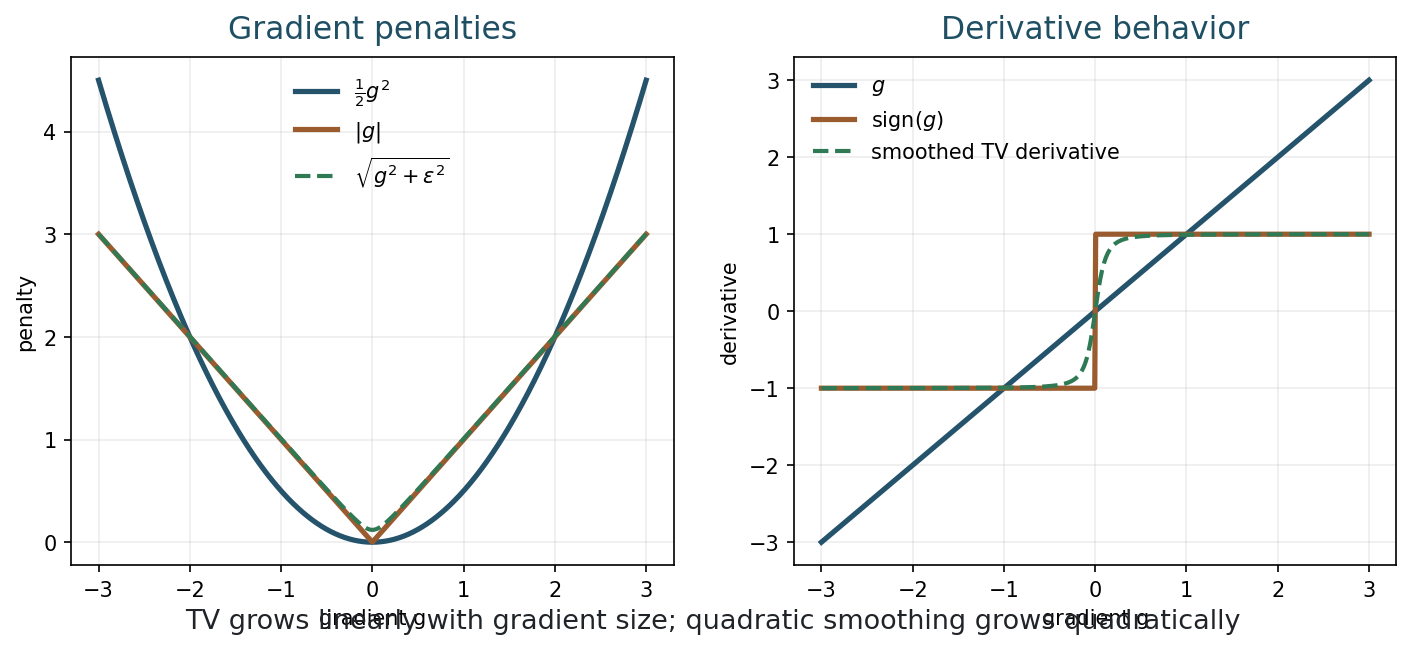
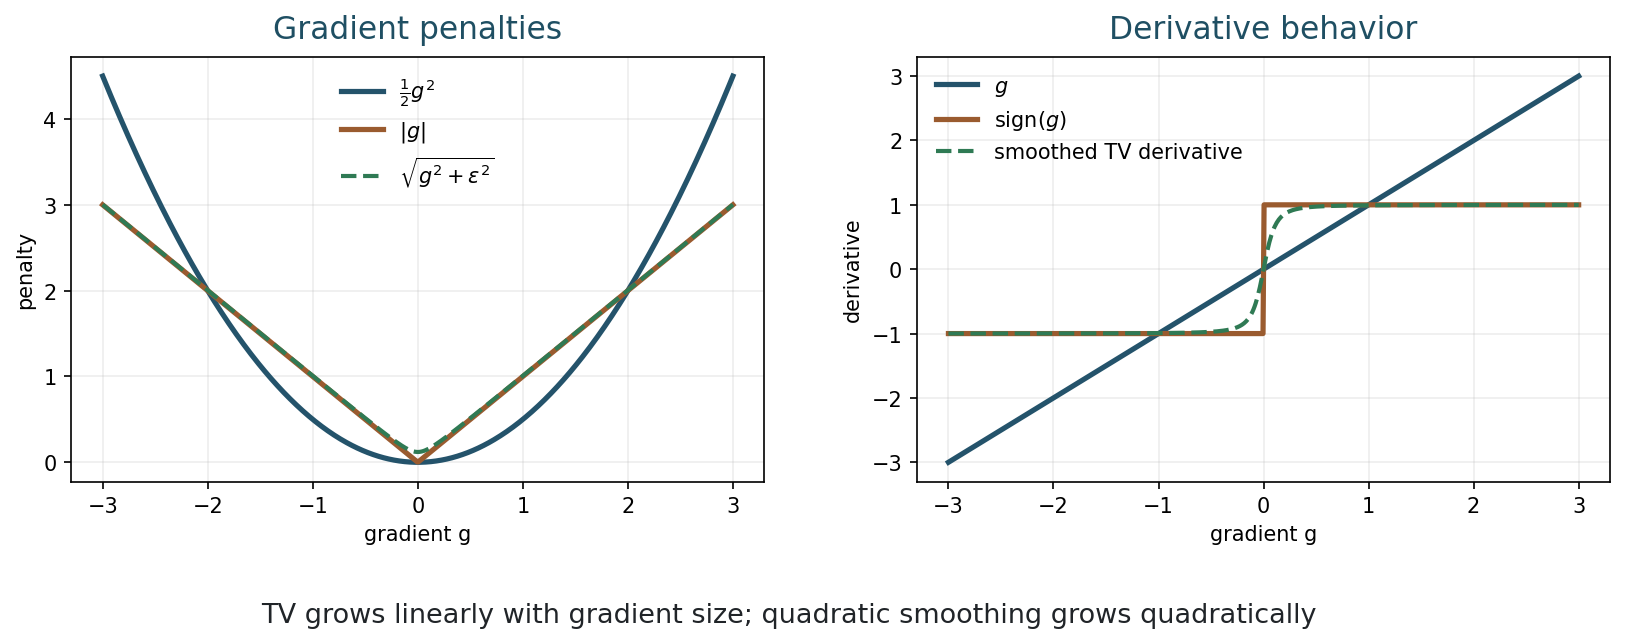
Built site for gh-pages

diff --git a/slides/week-01-image-formation.html b/slides/week-01-image-formation.html
@@ -439,7 +439,7 @@ x \mapsto Ax.
 </section>
 <section id="first-numpy-representation" class="slide level2 code-small">
 <h2>First NumPy Representation</h2>
-<div id="22eb4e40" class="cell">
+<div id="7f9a8e34" class="cell">
 <div class="code-copy-outer-scaffold"><div class="sourceCode cell-code" id="cb2"><pre class="sourceCode numberSource python number-lines code-with-copy"><code class="sourceCode python"><span id="cb2-1"><a></a><span class="im">import</span> numpy <span class="im">as</span> np</span>
 <span id="cb2-2"><a></a></span>
 <span id="cb2-3"><a></a>m, n <span class="op">=</span> <span class="dv">4</span>, <span class="dv">5</span></span>
@@ -458,7 +458,7 @@ x \mapsto Ax.
 <section id="vectorization-convention" class="slide level2">
 <h2>Vectorization Convention</h2>
 <p>NumPy uses row-major order by default:</p>
-<div id="c27cc574" class="cell">
+<div id="0e6807c4" class="cell">
 <div class="code-copy-outer-scaffold"><div class="sourceCode cell-code" id="cb3"><pre class="sourceCode numberSource python number-lines code-with-copy"><code class="sourceCode python"><span id="cb3-1"><a></a>U <span class="op">=</span> np.array([[<span class="dv">1</span>, <span class="dv">2</span>, <span class="dv">3</span>],</span>
 <span id="cb3-2"><a></a>              [<span class="dv">4</span>, <span class="dv">5</span>, <span class="dv">6</span>]])</span>
 <span id="cb3-3"><a></a></span>
@@ -686,7 +686,7 @@ x = A^{-1}y.
 <section id="a-toy-masking-operator" class="slide level2">
 <h2>A Toy Masking Operator</h2>
 <p>Suppose a fixed set of pixels is measured.</p>
-<div id="ebde42ff" class="cell">
+<div id="9d8f1840" class="cell">
 <div class="code-copy-outer-scaffold"><div class="sourceCode cell-code" id="cb4"><pre class="sourceCode numberSource python number-lines code-with-copy"><code class="sourceCode python"><span id="cb4-1"><a></a><span class="im">import</span> numpy <span class="im">as</span> np</span>
 <span id="cb4-2"><a></a></span>
 <span id="cb4-3"><a></a>x <span class="op">=</span> np.linspace(<span class="dv">0</span>, <span class="dv">1</span>, <span class="dv">12</span>)</span>
@@ -761,7 +761,7 @@ x.
 </section>
 <section id="python-demo-masking-a-real-image" class="slide level2 code-small">
 <h2>Python Demo: Masking a Real Image</h2>
-<div id="882bf567" class="cell">
+<div id="f14edf02" class="cell">
 <div class="code-copy-outer-scaffold"><div class="sourceCode cell-code" id="cb5"><pre class="sourceCode numberSource python number-lines code-with-copy"><code class="sourceCode python"><span id="cb5-1"><a></a><span class="im">from</span> skimage <span class="im">import</span> data</span>
 <span id="cb5-2"><a></a><span class="im">import</span> numpy <span class="im">as</span> np</span>
 <span id="cb5-3"><a></a></span>

diff --git a/slides/week-03-fourier-imaging.html b/slides/week-03-fourier-imaging.html
@@ -429,7 +429,7 @@ x[n] = \sin(2\pi 5n/N) + 0.5\sin(2\pi 20n/N).
 <section id="what-fft-returns" class="slide level2">
 <h2>What FFT Returns</h2>
 <div class="code-small">
-<div id="88b08403" class="cell">
+<div id="57aa8f9e" class="cell">
 <div class="code-copy-outer-scaffold"><div class="sourceCode cell-code" id="cb1"><pre class="sourceCode numberSource python number-lines code-with-copy"><code class="sourceCode python"><span id="cb1-1"><a></a><span class="im">import</span> numpy <span class="im">as</span> np</span>
 <span id="cb1-2"><a></a></span>
 <span id="cb1-3"><a></a>spectrum <span class="op">=</span> np.fft.fft(signal)</span>
@@ -468,7 +468,7 @@ x[n] = \sin(2\pi 5n/N) + 0.5\sin(2\pi 20n/N).
 <p>Most software places the zero frequency at the corner.</p>
 <p>For visualization, we often use:</p>
 <div class="code-small">
-<div id="36540fb4" class="cell">
+<div id="3ef0af7d" class="cell">
 <div class="code-copy-outer-scaffold"><div class="sourceCode cell-code" id="cb2"><pre class="sourceCode numberSource python number-lines code-with-copy"><code class="sourceCode python"><span id="cb2-1"><a></a>F <span class="op">=</span> np.fft.fft2(image)</span>
 <span id="cb2-2"><a></a>F_centered <span class="op">=</span> np.fft.fftshift(F)</span>
 <span id="cb2-3"><a></a>log_magnitude <span class="op">=</span> np.log1p(np.<span class="bu">abs</span>(F_centered))</span></code></pre></div><button title="Copy to Clipboard" class="code-copy-button"><i class="bi"></i></button></div>
@@ -538,7 +538,7 @@ x[n] = \sin(2\pi 5n/N) + 0.5\sin(2\pi 20n/N).
 </section>
 <section id="python-demo-spectrum-of-an-image" class="slide level2 code-small">
 <h2>Python Demo: Spectrum of an Image</h2>
-<div id="e073d579" class="cell">
+<div id="5a3c0c13" class="cell">
 <div class="code-copy-outer-scaffold"><div class="sourceCode cell-code" id="cb3"><pre class="sourceCode numberSource python number-lines code-with-copy"><code class="sourceCode python"><span id="cb3-1"><a></a><span class="im">from</span> skimage <span class="im">import</span> data</span>
 <span id="cb3-2"><a></a><span class="im">import</span> numpy <span class="im">as</span> np</span>
 <span id="cb3-3"><a></a></span>

diff --git a/slides/week-06-tikhonov-regularization.html b/slides/week-06-tikhonov-regularization.html
@@ -486,7 +486,7 @@ x_\lambda
 </section>
 <section id="python-demo-normal-equations" class="slide level2 code-small">
 <h2>Python Demo: Normal Equations</h2>
-<div id="7903c447" class="cell">
+<div id="dddbcf19" class="cell">
 <div class="code-copy-outer-scaffold"><div class="sourceCode cell-code" id="cb1"><pre class="sourceCode numberSource python number-lines code-with-copy"><code class="sourceCode python"><span id="cb1-1"><a></a>lhs <span class="op">=</span> A.T <span class="op">@</span> A <span class="op">+</span> lam <span class="op">*</span> np.eye(n)</span>
 <span id="cb1-2"><a></a>rhs <span class="op">=</span> A.T <span class="op">@</span> y</span>
 <span id="cb1-3"><a></a>x_lam <span class="op">=</span> np.linalg.solve(lhs, rhs)</span></code></pre></div><button title="Copy to Clipboard" class="code-copy-button"><i class="bi"></i></button></div>

diff --git a/slides/week-02-convolution-blur.html b/slides/week-02-convolution-blur.html
@@ -511,7 +511,7 @@ y = h * x
 </section>
 <section id="python-demo-blur-a-real-image" class="slide level2 code-small">
 <h2>Python Demo: Blur a Real Image</h2>
-<div id="bc13a134" class="cell">
+<div id="dd3f09c0" class="cell">
 <div class="code-copy-outer-scaffold"><div class="sourceCode cell-code" id="cb1"><pre class="sourceCode numberSource python number-lines code-with-copy"><code class="sourceCode python"><span id="cb1-1"><a></a><span class="im">from</span> skimage <span class="im">import</span> data</span>
 <span id="cb1-2"><a></a><span class="im">from</span> scipy <span class="im">import</span> signal</span>
 <span id="cb1-3"><a></a><span class="im">import</span> numpy <span class="im">as</span> np</span>

diff --git a/slides/week-04-noise-likelihood.html b/slides/week-04-noise-likelihood.html
@@ -511,7 +511,7 @@ y = f(x)+\eta,
 </section>
 <section id="python-demo-gaussian-noise" class="slide level2 code-small">
 <h2>Python Demo: Gaussian Noise</h2>
-<div id="f6a0b3db" class="cell">
+<div id="9e0c87ef" class="cell">
 <div class="code-copy-outer-scaffold"><div class="sourceCode cell-code" id="cb1"><pre class="sourceCode numberSource python number-lines code-with-copy"><code class="sourceCode python"><span id="cb1-1"><a></a><span class="im">import</span> numpy <span class="im">as</span> np</span>
 <span id="cb1-2"><a></a><span class="im">from</span> skimage <span class="im">import</span> data</span>
 <span id="cb1-3"><a></a></span>

diff --git a/examples/make_week08_figures.py b/examples/make_week08_figures.py
@@ -56,7 +56,8 @@ def make_penalties(path: Path) -> None:
     tv = np.abs(g)
     eps_tv = np.sqrt(g**2 + 0.12**2)
 
-    fig, axes = plt.subplots(1, 2, figsize=(11.4, 4.4), dpi=150)
+    fig, axes = plt.subplots(1, 2, figsize=(11.4, 4.8), dpi=150)
+    fig.subplots_adjust(left=0.08, right=0.98, top=0.84, bottom=0.25, wspace=0.22)
     axes[0].plot(g, l2, label=r"$\frac{1}{2} g^2$", color="#24536b", linewidth=2.5)
     axes[0].plot(g, tv, label=r"$|g|$", color="#9a5b2f", linewidth=2.5)
     axes[0].plot(g, eps_tv, label=r"$\sqrt{g^2+\epsilon^2}$", color="#2f7a54", linewidth=2.0, linestyle="--")
@@ -76,7 +77,7 @@ def make_penalties(path: Path) -> None:
     axes[1].legend(frameon=False)
     fig.text(
         0.5,
-        0.015,
+        0.055,
         "TV grows linearly with gradient size; quadratic smoothing grows quadratically",
         ha="center",
         fontsize=13,
@@ -97,7 +98,8 @@ def make_step_signal(path: Path) -> None:
     l2 = quadratic_smooth(noisy, 18.0)
     tv = denoise_tv_chambolle(noisy, weight=0.18)
 
-    fig, ax = plt.subplots(figsize=(10.8, 4.4), dpi=150)
+    fig, ax = plt.subplots(figsize=(10.8, 4.8), dpi=150)
+    fig.subplots_adjust(left=0.08, right=0.98, top=0.84, bottom=0.24)
     ax.plot(x, clean, label="clean", color="#202428", linewidth=2.5)
     ax.plot(x, noisy, label="noisy", color="#b8bfc4", linewidth=1.2)
     ax.plot(x, l2, label="quadratic smoothing", color="#24536b", linewidth=2.2)
@@ -110,7 +112,7 @@ def make_step_signal(path: Path) -> None:
     ax.legend(frameon=False, ncol=2)
     fig.text(
         0.5,
-        0.015,
+        0.055,
         "TV keeps sharp jumps better; quadratic smoothing rounds them",
         ha="center",
         fontsize=13,
